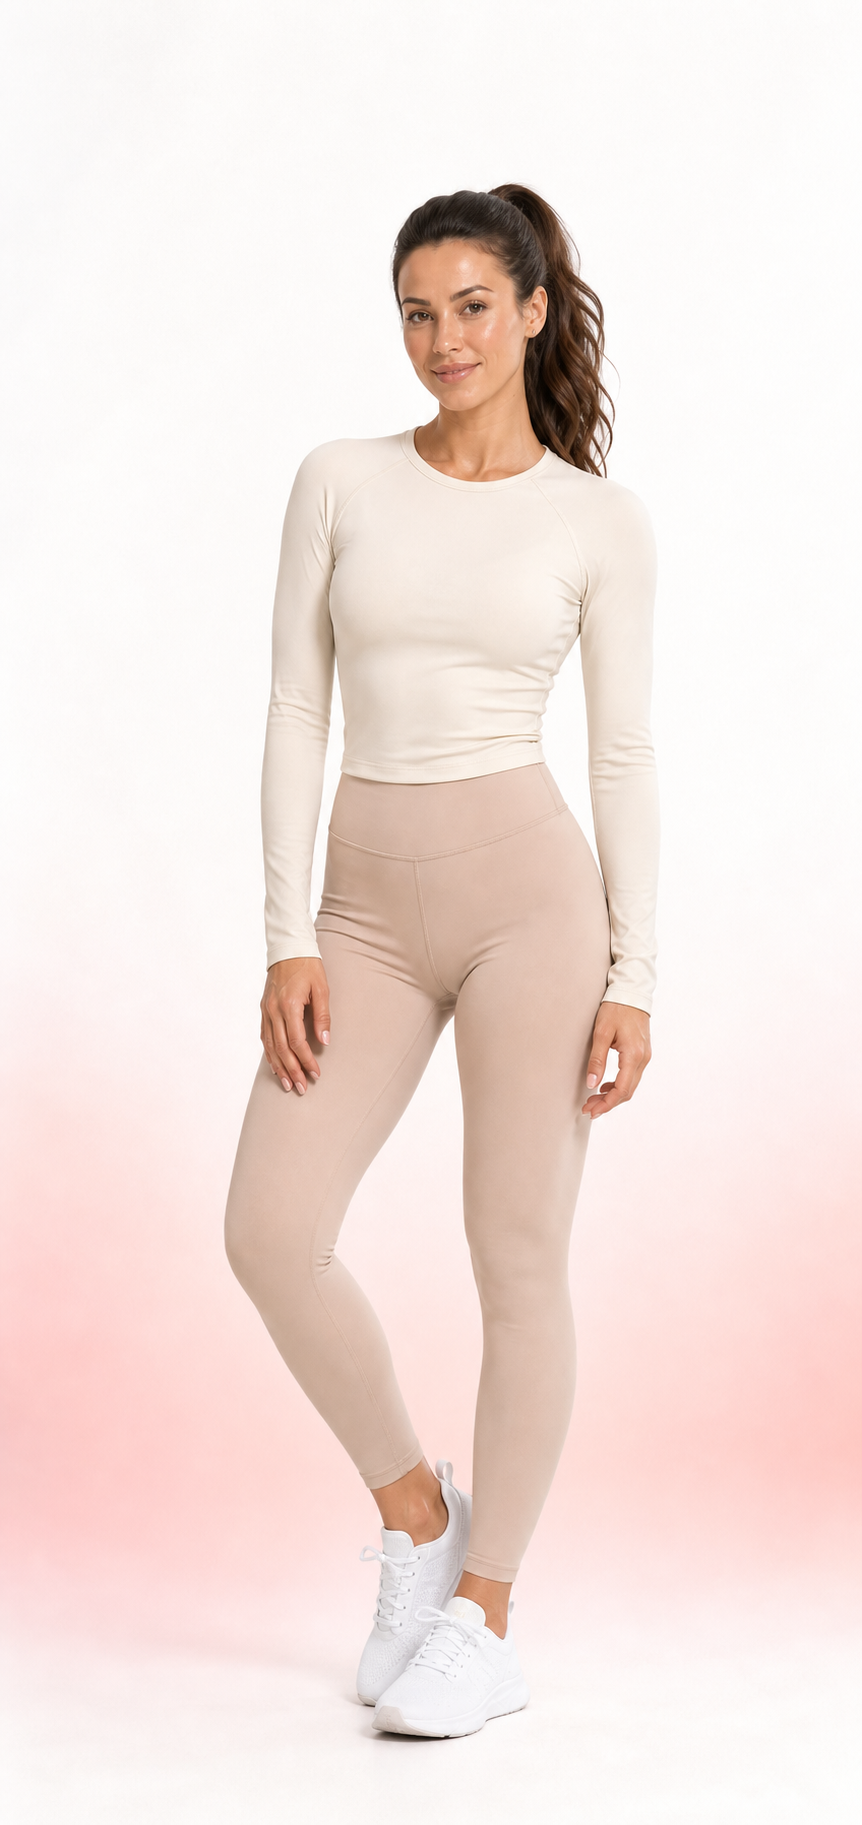
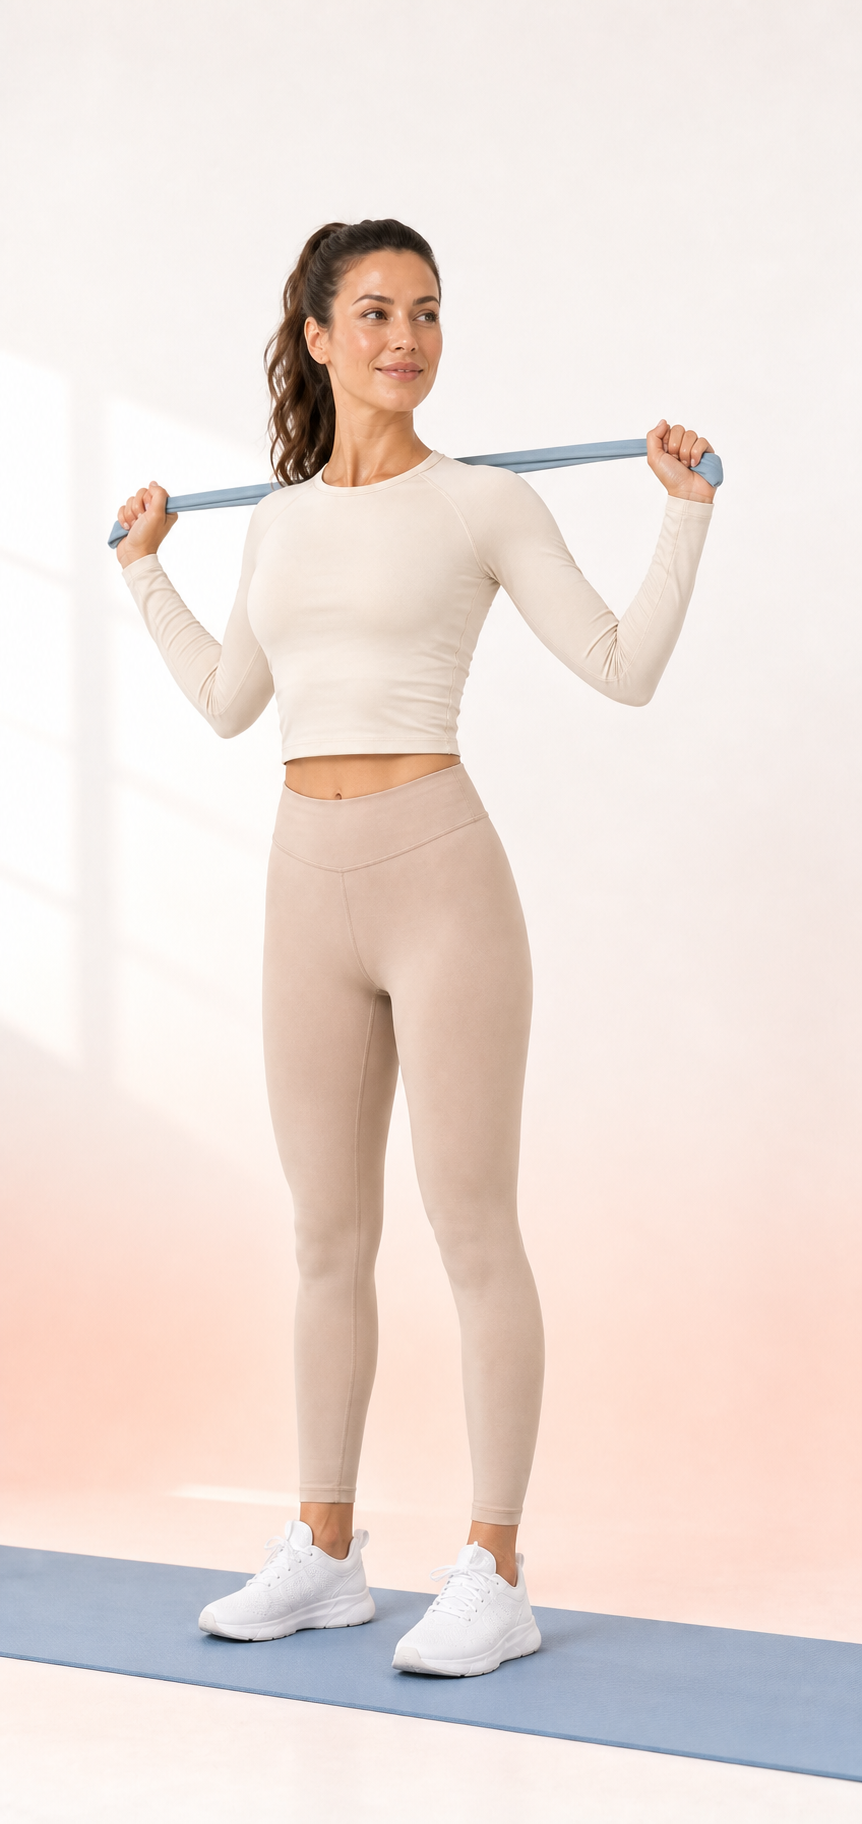
Add landing metadata and reference screenshots

Changed region(s): [[0.0, 0.0938, 1.0, 1.0]]

diff --git a/index.html b/index.html
@@ -3,10 +3,36 @@
   <head>
     <meta charset="UTF-8" />
     <meta name="viewport" content="width=device-width, initial-scale=1.0" />
+    <link rel="icon" type="image/svg+xml" href="%BASE_URL%favicon.svg" />
+    <meta name="theme-color" content="#101014" />
     <title>Саша Белоконова | Фитнес-программы</title>
     <meta
       name="description"
       content="Лендинг фитнес-тренера Саши Белоконовой: программы тренировок, питание и подбор курса под цель."
+    />
+    <meta property="og:type" content="website" />
+    <meta property="og:site_name" content="Саша Белоконова" />
+    <meta property="og:title" content="Саша Белоконова | Фитнес-программы" />
+    <meta
+      property="og:description"
+      content="Программы тренировок, питание и подбор курса под цель."
+    />
+    <meta
+      property="og:image"
+      content="https://test-site-usmanova.unity-constructor.site/test_site_usmanova/assets/hero-sasha-crop.png"
+    />
+    <meta property="og:image:width" content="1073" />
+    <meta property="og:image:height" content="929" />
+    <meta property="og:url" content="https://test-site-usmanova.unity-constructor.site/" />
+    <meta name="twitter:card" content="summary_large_image" />
+    <meta name="twitter:title" content="Саша Белоконова | Фитнес-программы" />
+    <meta
+      name="twitter:description"
+      content="Программы тренировок, питание и подбор курса под цель."
+    />
+    <meta
+      name="twitter:image"
+      content="https://test-site-usmanova.unity-constructor.site/test_site_usmanova/assets/hero-sasha-crop.png"
     />
   </head>
   <body>